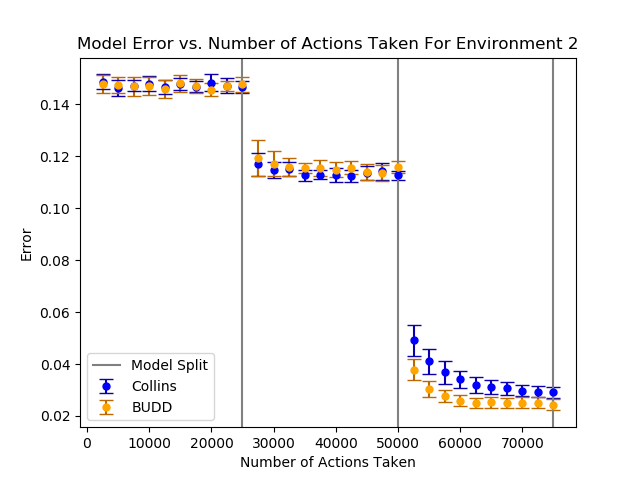
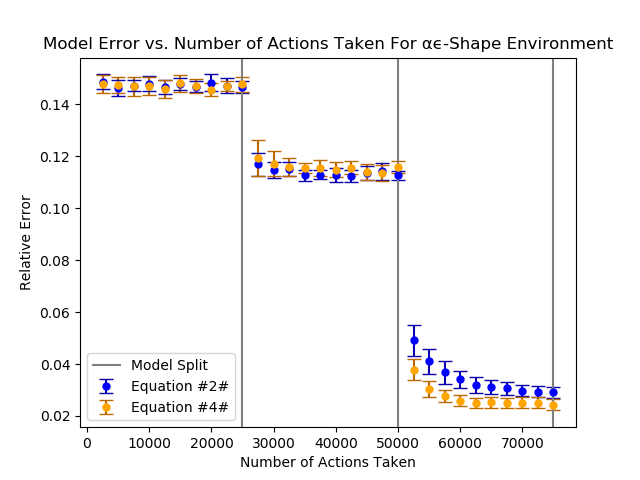
Revised generateGraphs so that the environment names and the type of error are written on the graph. Generated new graphs for Tests 1 and 3.

Changed region(s): [[0.0625, 0.0625, 0.9688, 0.125], [0.1875, 0.7812, 0.375, 0.875], [0.0312, 0.4062, 0.0625, 0.625]]

diff --git a/generateGraphs.py b/generateGraphs.py
@@ -91,12 +91,11 @@ def generateGraphTest1(useFirstPoint,genAbsoluteError):
     
     # plt.scatter(v1Data_average[:,0], v1Data_average[:,1], label="Collins")
     if v1Data.size > 0: # Check to make sure at least one trial was successful
-        print(v1Data_average.size)
-        plt.errorbar(v1Data_average[:,0], v1Data_average[:,1],fmt='.',yerr=v1Data_stdDev[:,1],ecolor="#0B00AB",label="Collins",color="blue",markersize=10,capsize=5)
+        plt.errorbar(v1Data_average[:,0], v1Data_average[:,1],fmt='.',yerr=v1Data_stdDev[:,1],ecolor="#0B00AB",label="Equation #2#",color="blue",markersize=10,capsize=5)
     
     # plt.scatter(v2Data_average[:,0], v2Data_average[:,1], label="BUDD")
     if v2Data.size > 0:
-        plt.errorbar(v2Data_average[:,0], v2Data_average[:,1],fmt='.',yerr=v2Data_stdDev[:,1],ecolor="#BD6800",label="BUDD",color="orange",markersize=10,capsize=5)
+        plt.errorbar(v2Data_average[:,0], v2Data_average[:,1],fmt='.',yerr=v2Data_stdDev[:,1],ecolor="#BD6800",label="Equation #4#",color="orange",markersize=10,capsize=5)
     for num in range(len(model_splits)):
         split = model_splits[num]
         if num == 0:
@@ -104,8 +103,12 @@ def generateGraphTest1(useFirstPoint,genAbsoluteError):
         else:
             plt.axvline(x=split, color='gray')
     plt.xlabel("Number of Actions Taken")
-    plt.ylabel("Error")
-    plt.title("Model Error vs. Number of Actions Taken For Environment " + env_num)
+    if (genAbsoluteError):
+        yLabel = "Absolute Error"
+    else:
+        yLabel = "Relative Error"
+    plt.ylabel(yLabel)
+    plt.title("Model Error vs. Number of Actions Taken For " + str(getEnvironmentName(env_num)))
     plt.legend()
 
     axes = plt.gca()
@@ -196,7 +199,7 @@ def generateGraphTest2():
 
         plt.xlabel("Model Split Number")
         plt.ylabel("Number of Actions Taken")
-        plt.title("Number of Actions Taken per Model Split For Environment " + env_num)
+        plt.title("Number of Actions Taken per Model Split For " + getEnvironmentName(env_num))
         plt.legend()
 
     plt.show()
@@ -255,13 +258,14 @@ def generateGraphRelativeError(useFirstPoint):
 
     plt.show()
 
-def generateGraphTest3(useFirstPoint):
+
+def generateGraphTest3(useFirstPoint,genAbsoluteError):
     # use list and not numpy array since we don't know how many iterations were done
     v1Data = []
     v2Data = []
     model_splits = []
     
-    for versionNum in range(1, 1+3):
+    for versionNum in [1,3]:
         files = glob.glob("./Testing Data/Test3_v" + str(versionNum) + "/*.csv")
         if len(files) == 0:
             continue
@@ -273,45 +277,79 @@ def generateGraphTest3(useFirstPoint):
             data = v1Data
         else:
             data = v2Data
+
+        validCount = 0
+        totalCount = len(files)
         for filename in files:
+            # find the returned model num
+            finalModelNum = -1
+            isValidSplitTrial = False
             with open(filename, mode='r') as csv_file:
                 csv_reader = csv.DictReader(csv_file)
-                iteration_num = 0
-                model_num = 0
-                offset_amount = 0
-                trialData = []
+                foundFinal = False
                 for row in csv_reader:
-                    if row['0'] == 'Model Num ' + str(model_num+1):
-                        if iteration_num + offset_amount not in model_splits:
-                            model_splits.append(iteration_num + offset_amount)
-                        model_num = model_num + 1
-                        offset_amount = offset_amount + iteration_num + 1  # add the number of iterations from the last model + 1 (since we start counting at zero)
-                    elif row['0'] == 'Iteration: ':
-                        iteration_num = float(row['1'])
-                    elif row['0'] == 'Error:':
-                        if iteration_num == 0 and useFirstPoint is False:
-                            continue
-                        trialData.append([iteration_num + offset_amount, float(row['1'])])
-                data.append(trialData)
+                    if row['0'] == '*':
+                        foundFinal = True
+                        continue
+                    if foundFinal is True and finalModelNum == -1:
+                        temp = row['0']
+                        finalModelNum = int(temp[len('Model Num '):])
+                    if foundFinal is True and row['0'] == 'Absolute Error:':
+                        absError = float(row['1'])
+                        if absError < 1:
+                            validCount = validCount+1
+                            isValidSplitTrial = True
 
+            if isValidSplitTrial:
+                with open(filename, mode='r') as csv_file:
+                    csv_reader = csv.DictReader(csv_file)
+                    iteration_num = 0
+                    model_num = 0
+                    offset_amount = 0
+                    trialData = []
+                    for row in csv_reader:
+                        if model_num > finalModelNum:
+                            break
+                        if row['0'] == '*':
+                            break
+                        elif row['0'] == 'Model Num ' + str(model_num+1):
+                            if iteration_num + offset_amount not in model_splits:
+                                model_splits.append(iteration_num + offset_amount)
+                            model_num = model_num + 1
+                            offset_amount = offset_amount + iteration_num + 1  # add the number of iterations from the last model + 1 (since we start counting at zero)
+                        elif row['0'] == 'Iteration: ':
+                            iteration_num = float(row['1'])
+                        elif row['0'] == 'Error:' and genAbsoluteError is False:
+                            if iteration_num == 0 and useFirstPoint is False:
+                                continue
+                            trialData.append([iteration_num + offset_amount, float(row['1'])])
+                        elif row['0'] == 'Absolute Error:' and genAbsoluteError:
+                            if float(row['1']) < 1:
+                                if iteration_num == 0 and useFirstPoint is False:
+                                    continue
+                                trialData.append([iteration_num + offset_amount, float(row['1'])])
+
+                    data.append(trialData)
+
+        print("Percent Trials Correct for Version " + str(versionNum) + " : " + str(validCount/totalCount))
     v1Data = np.array(v1Data)
-    if v1Data.size > 0:
+    if v1Data.size > 0: # Check to make sure at least one trial was successful
         v1Data_average = np.mean(v1Data, axis=0)
         v1Data_stdDev = np.std(v1Data, axis=0)
 
-    v2Data_average = np.mean(v2Data, axis=0)
-    if v2Data.size > 0:
-        v2Data = np.array(v2Data)
+    v2Data = np.array(v2Data)
+    if v2Data.size > 0: # Check to make sure at least one trial was successful
+        v2Data_average = np.mean(v2Data, axis=0)
         v2Data_stdDev = np.std(v2Data, axis=0)
-
     
     # plt.scatter(v1Data_average[:,0], v1Data_average[:,1], label="Collins")
+    if v1Data.size > 0: # Check to make sure at least one trial was successful
+        print(v1Data_average.size)
+        plt.errorbar(v1Data_average[:,0], v1Data_average[:,1],fmt='.',yerr=v1Data_stdDev[:,1],ecolor="#0B00AB",label="Collins et al. SDE Generation",color="blue",markersize=10,capsize=5)
+    
     # plt.scatter(v2Data_average[:,0], v2Data_average[:,1], label="BUDD")
-    if v1Data.size > 0:
-        plt.errorbar(v1Data_average[:,0], v1Data_average[:,1],fmt='.',yerr=v1Data_stdDev[:,1],ecolor="#0B00AB",label="Collins",color="blue",markersize=10,capsize=5)
-
     if v2Data.size > 0:
-        plt.errorbar(v2Data_average[:,0], v2Data_average[:,1],fmt='.',yerr=v2Data_stdDev[:,1],ecolor="#BD6800",label="BUDD",color="orange",markersize=10,capsize=5)
+        plt.errorbar(v2Data_average[:,0], v2Data_average[:,1],fmt='.',yerr=v2Data_stdDev[:,1],ecolor="#BD6800",label="Revised SDE Generation",color="orange",markersize=10,capsize=5)
     for num in range(len(model_splits)):
         split = model_splits[num]
         if num == 0:
@@ -319,8 +357,12 @@ def generateGraphTest3(useFirstPoint):
         else:
             plt.axvline(x=split, color='gray')
     plt.xlabel("Number of Actions Taken")
-    plt.ylabel("Error")
-    plt.title("Model Error vs. Number of Actions Taken For Environment " + env_num)
+    if (genAbsoluteError):
+        yLabel = "Absolute Error"
+    else:
+        yLabel = "Relative Error"
+    plt.ylabel(yLabel)
+    plt.title("Model Error vs. Number of Actions Taken For " + getEnvironmentName(env_num))
     plt.legend()
 
     axes = plt.gca()
@@ -329,7 +371,19 @@ def generateGraphTest3(useFirstPoint):
 
     plt.show()
 
+def getEnvironmentName(env_num):
+    if env_num == "2":
+        return "αϵ-Shape Environment"
+    elif env_num == "3":
+        return "αϵ-Little Prince Environment"
+    elif env_num == "4":
+        return "αϵ-1D Maze Environment"
+    elif env_num == "7":
+        return "αϵ-Balance Beam Environment"
+    return "Environment " + env_num
+
 if __name__ == "__main__":
     
     generateGraphTest1(False,False)
     # generateGraphRelativeError()
+
